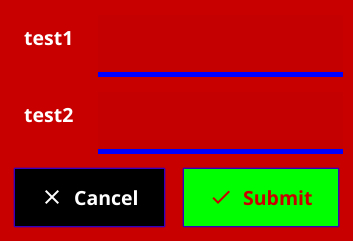
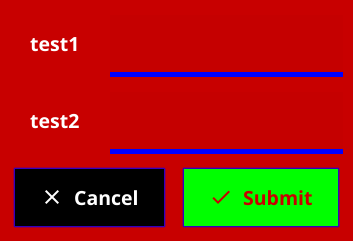
Disable form labels for disabled widgets
In 2.1 we could return to using Label as RichText would allow colours.
But for now using Text works :).
Fixes #1530

diff --git a/widget/form.go b/widget/form.go
@@ -108,8 +108,11 @@ func (f *Form) createInput(item *FormItem) fyne.CanvasObject {
 	return fyne.NewContainerWithLayout(layout.NewVBoxLayout(), item.Widget, fyne.NewContainerWithoutLayout(text))
 }
 
-func (f *Form) createLabel(text string) *Label {
-	return NewLabelWithStyle(text, fyne.TextAlignTrailing, fyne.TextStyle{Bold: true})
+func (f *Form) createLabel(text string) *canvas.Text {
+	return &canvas.Text{Text: text,
+		Alignment: fyne.TextAlignTrailing,
+		TextSize:  theme.TextSize(),
+		TextStyle: fyne.TextStyle{Bold: true}}
 }
 
 func (f *Form) updateButtons() {
@@ -193,12 +196,18 @@ func (f *Form) updateHelperText(item *FormItem) {
 
 func (f *Form) updateLabels() {
 	for i, item := range f.Items {
-		l := f.itemGrid.Objects[i*2].(*Label)
-		if l.Text == item.Text {
-			continue
+		l := f.itemGrid.Objects[i*2].(*canvas.Text)
+		l.TextSize = theme.TextSize()
+		if dis, ok := item.Widget.(fyne.Disableable); ok {
+			if dis.Disabled() {
+				l.Color = theme.DisabledColor()
+			} else {
+				l.Color = theme.ForegroundColor()
+			}
 		}
 
-		l.SetText(item.Text)
+		l.Text = item.Text
+		l.Refresh()
 		f.updateHelperText(item)
 	}
 }
@@ -221,7 +230,8 @@ func (f *Form) CreateRenderer() fyne.WidgetRenderer {
 	f.itemGrid = fyne.NewContainerWithLayout(layout.NewFormLayout(), objects...)
 
 	renderer := &simpleRenderer{content: fyne.NewContainerWithLayout(layout.NewVBoxLayout(), f.itemGrid, f.buttonBox)}
-	f.updateButtons()      // will set correct visibility on the submit/cancel btns
+	f.updateButtons()
+	f.updateLabels()
 	f.checkValidation(nil) // will trigger a validation check for correct intial validation status
 	return renderer
 }

diff --git a/widget/form_test.go b/widget/form_test.go
@@ -5,6 +5,7 @@ import (
 	"testing"
 
 	"fyne.io/fyne/v2"
+	"fyne.io/fyne/v2/canvas"
 	"fyne.io/fyne/v2/data/validation"
 	"fyne.io/fyne/v2/test"
 	"fyne.io/fyne/v2/theme"
@@ -104,11 +105,11 @@ func TestForm_ChangeText(t *testing.T) {
 
 	renderer := test.WidgetRenderer(form)
 	c := renderer.Objects()[0].(*fyne.Container).Objects[0].(*fyne.Container)
-	assert.Equal(t, "Test", c.Objects[0].(*Label).Text)
+	assert.Equal(t, "Test", c.Objects[0].(*canvas.Text).Text)
 
 	item.Text = "Changed"
 	form.Refresh()
-	assert.Equal(t, "Changed", c.Objects[0].(*Label).Text)
+	assert.Equal(t, "Changed", c.Objects[0].(*canvas.Text).Text)
 }
 
 func TestForm_ChangeTheme(t *testing.T) {
@@ -131,6 +132,23 @@ func TestForm_ChangeTheme(t *testing.T) {
 		w.Resize(form.MinSize().Add(fyne.NewSize(theme.Padding()*2, theme.Padding()*2)))
 		test.AssertImageMatches(t, "form/theme_changed.png", w.Canvas().Capture())
 	})
+}
+
+func TestForm_Disabled(t *testing.T) {
+	app := test.NewApp()
+	defer test.NewApp()
+	app.Settings().SetTheme(theme.LightTheme())
+
+	disabled := NewEntry()
+	disabled.Disable()
+	f := NewForm(
+		NewFormItem("Form Item 1", NewEntry()),
+		NewFormItem("Form Item 2", disabled))
+
+	w := test.NewWindow(f)
+	defer w.Close()
+
+	test.AssertImageMatches(t, "form/disabled.png", w.Canvas().Capture())
 }
 
 func TestForm_Hints(t *testing.T) {

diff --git a/layout/formlayout.go b/layout/formlayout.go
@@ -2,6 +2,7 @@ package layout
 
 import (
 	"fyne.io/fyne/v2"
+	"fyne.io/fyne/v2/canvas"
 	"fyne.io/fyne/v2/theme"
 )
 
@@ -53,6 +54,9 @@ func (f *formLayout) tableCellsSize(objects []fyne.CanvasObject, containerWidth 
 		}
 
 		labelCell := currentRow[0].MinSize()
+		if _, ok := currentRow[0].(*canvas.Text); ok {
+			labelCell.Width += theme.Padding() * 4
+		}
 		labelCellMaxWidth = fyne.Max(labelCellMaxWidth, labelCell.Width)
 
 		contentCell := currentRow[1].MinSize()
@@ -92,8 +96,13 @@ func (f *formLayout) Layout(objects []fyne.CanvasObject, size fyne.Size) {
 		}
 
 		tableRow := table[row]
-		objects[i].Move(fyne.NewPos(0, y))
-		objects[i].Resize(fyne.NewSize(tableRow[0].Width, tableRow[0].Height))
+		if _, ok := objects[i].(*canvas.Text); ok {
+			objects[i].Move(fyne.NewPos(theme.Padding()*2, y+theme.Padding()*2))
+			objects[i].Resize(fyne.NewSize(tableRow[0].Width-theme.Padding()*4, objects[i].MinSize().Height))
+		} else {
+			objects[i].Move(fyne.NewPos(0, y))
+			objects[i].Resize(fyne.NewSize(tableRow[0].Width, tableRow[0].Height))
+		}
 
 		if i+1 < len(objects) {
 			objects[i+1].Move(fyne.NewPos(theme.Padding()+tableRow[0].Width, y))
